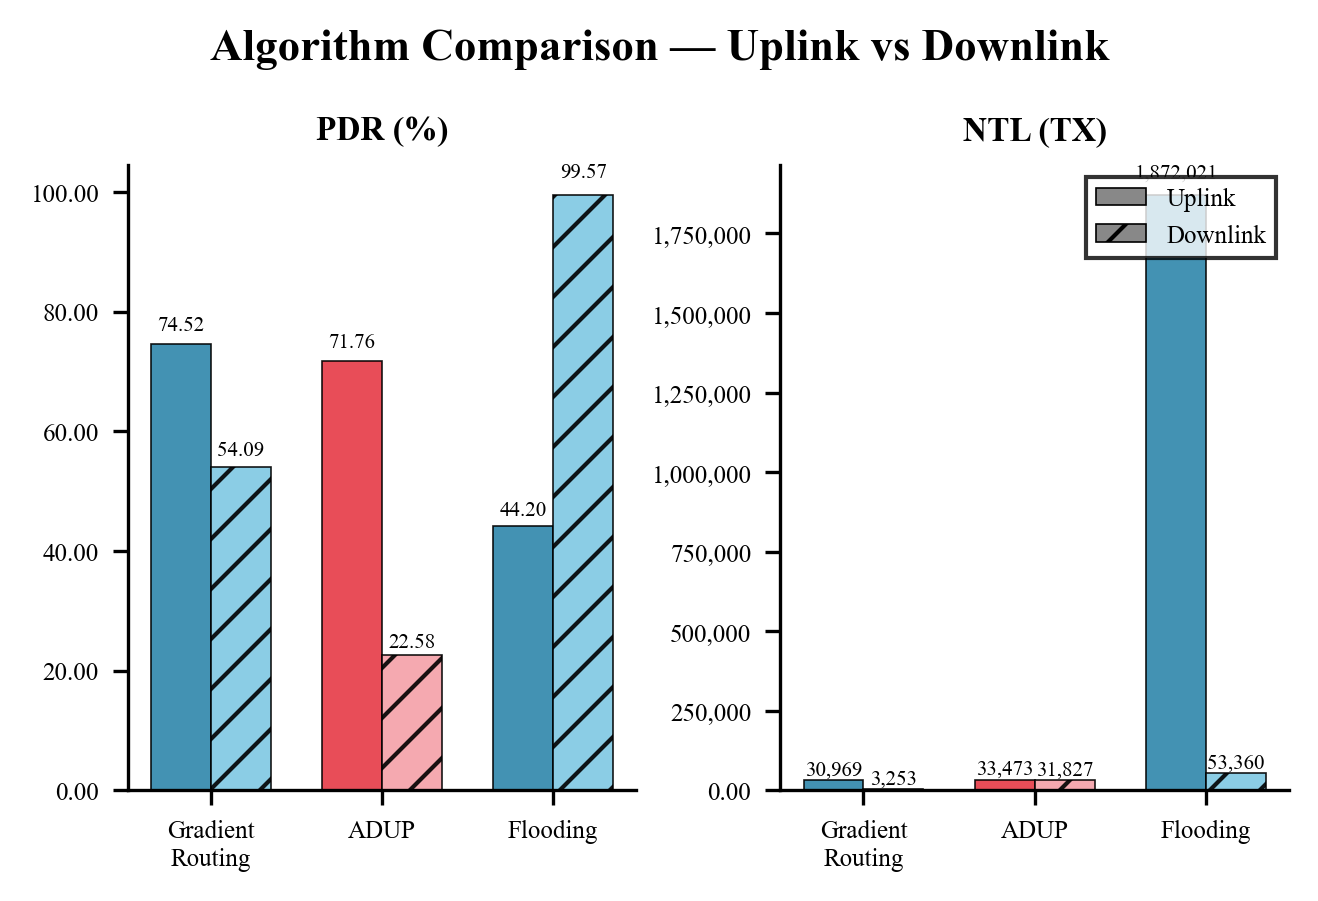
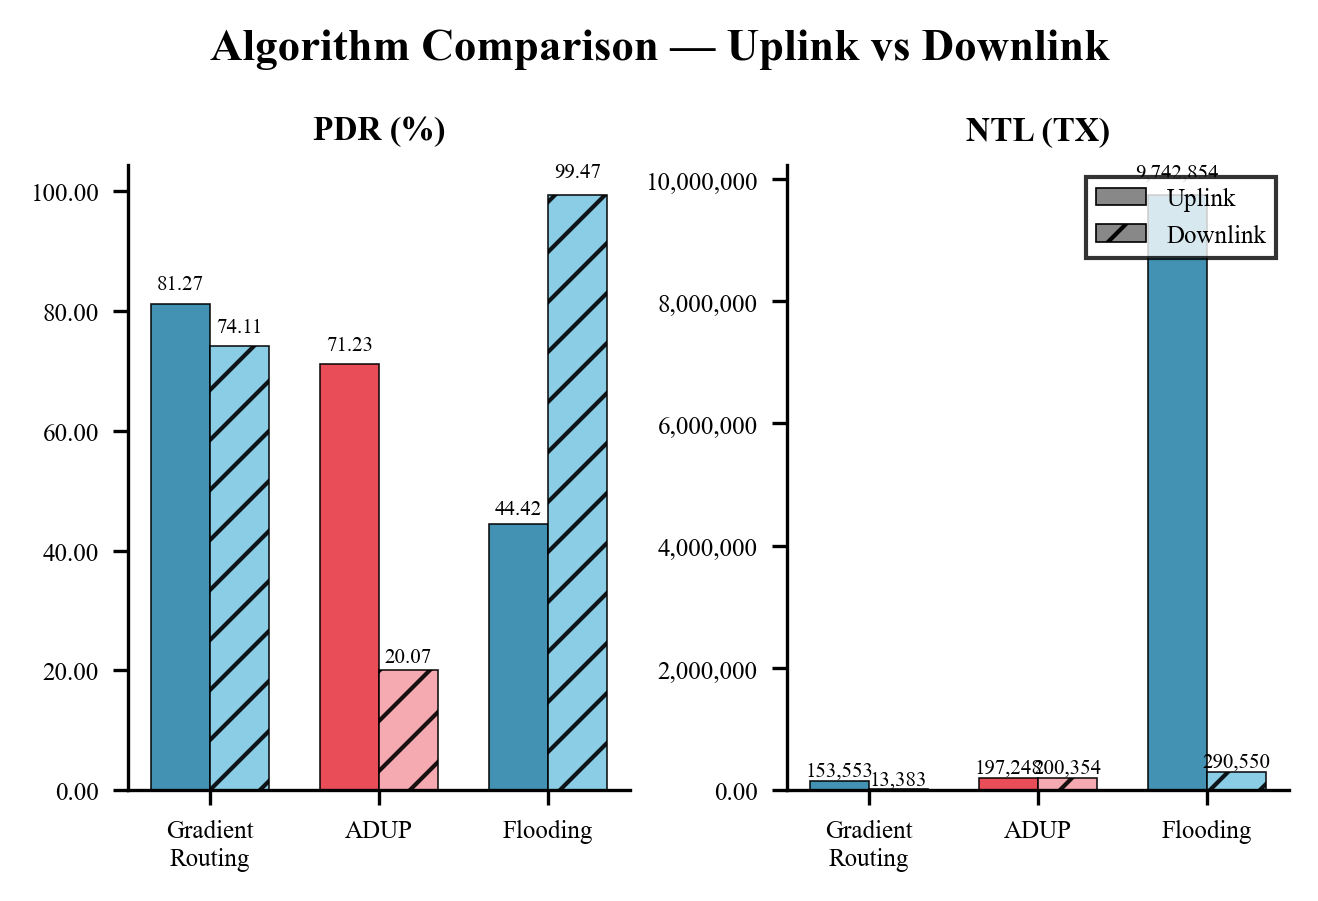
update

diff --git a/config/settings.py b/config/settings.py
@@ -13,7 +13,7 @@ TOPOLOGY:      str   = "Random"   # "Random" | "Grid" | "Star" | "Tree"
 # ---------------------------------------------------------------------------
 # Simulation time
 # ---------------------------------------------------------------------------
-SIM_DURATION:    float = 60.0   # seconds of simulated time
+SIM_DURATION:    float = 300.0   # seconds of simulated time
 DATA_INTERVAL:   float = 1.0    # seconds between DATA generations per node
 DATA_RATE:       int   = 1      # packets per interval per node
 NUM_TIME_STEPS:  int   = 100    # kept for backwards compat (unused in SimPy mode)